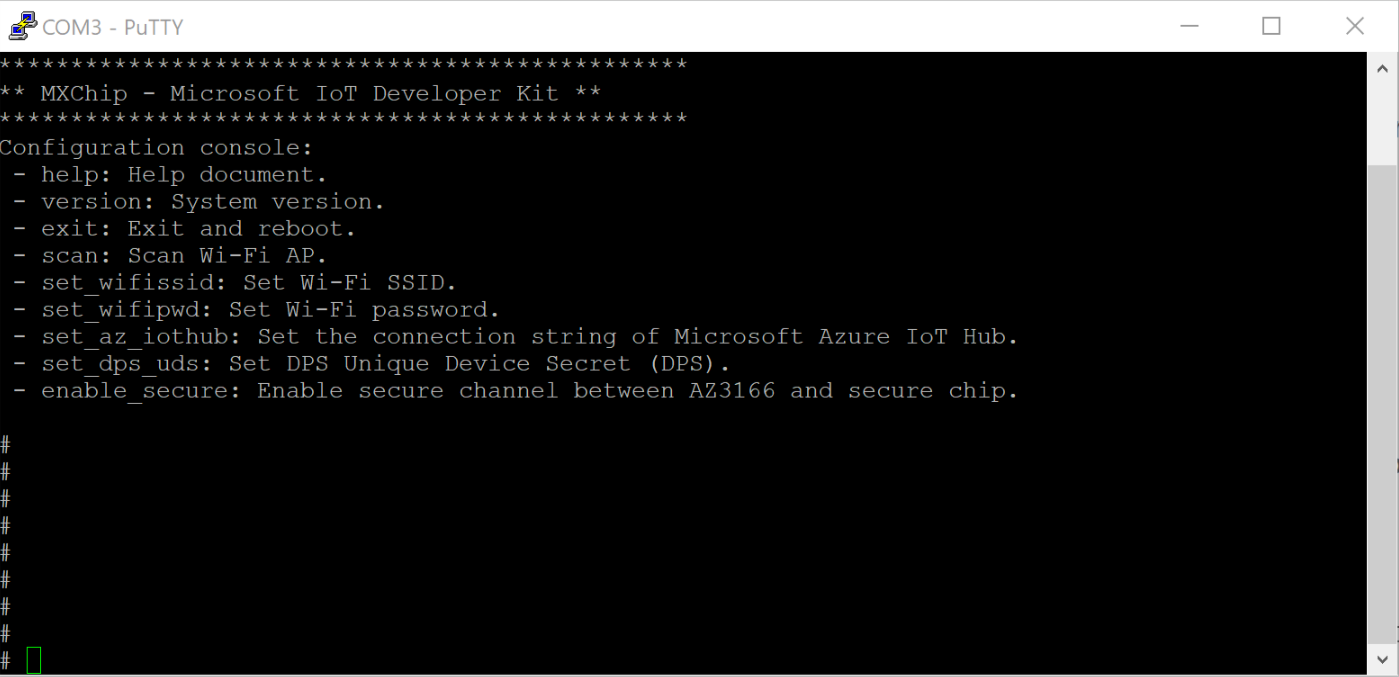
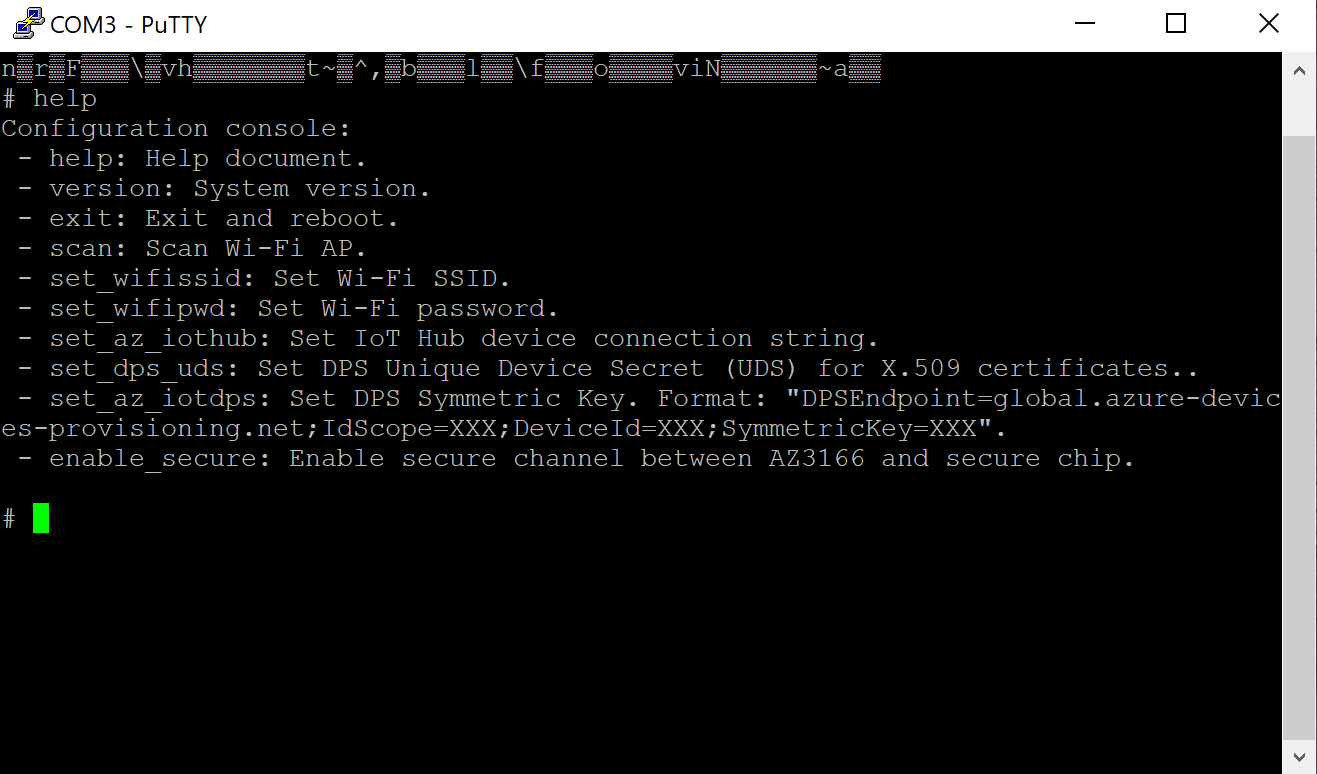
Add new configuration mode command

diff --git a/docs/v1/index.html b/docs/v1/index.html
@@ -21,10 +21,9 @@
 
 <meta name="description" content="An all-in-one IoT kit built for the cloud">
 
-
-
-
 <meta name="author" content="MXChip IoT DevKit">
+
+<meta http-equiv="refresh" content="0; URL='https://microsoft.github.io/azure-iot-developer-kit/'" />
 
 <meta property="og:locale" content="en_US">
 <meta property="og:site_name" content="IoT Developer Kits">

diff --git a/docs/_docs/05-use-configuration-mode.md b/docs/_docs/05-use-configuration-mode.md
@@ -136,6 +136,14 @@ set_dps_uds [unique device secret]
 
 Set Unique Device Secret that is used as device unique key to be used for calcuation by [Device Identifier Composition Engine (DICE)](https://trustedcomputinggroup.org/work-groups/dice-architectures/) and be used to register on [IoT Hub Device Provisioning Service](https://docs.microsoft.com/en-us/azure/iot-dps/about-iot-dps).
 
+### set_az_iotdps
+
+```bash
+set_az_iotdps [DPS Symmetric Key]
+```
+
+Set [Symmetric Key](https://docs.microsoft.com/azure/iot-dps/concepts-device) based on the shared access signature (SAS) token that is supported by DPS. The Symmetric Key format is `"DPSEndpoint=global.azure-devices-provisioning.net;IdScope=XXX;DeviceId=XXX;SymmetricKey=XXX"`.
+
 ### enable_secure
 
 ```bash
